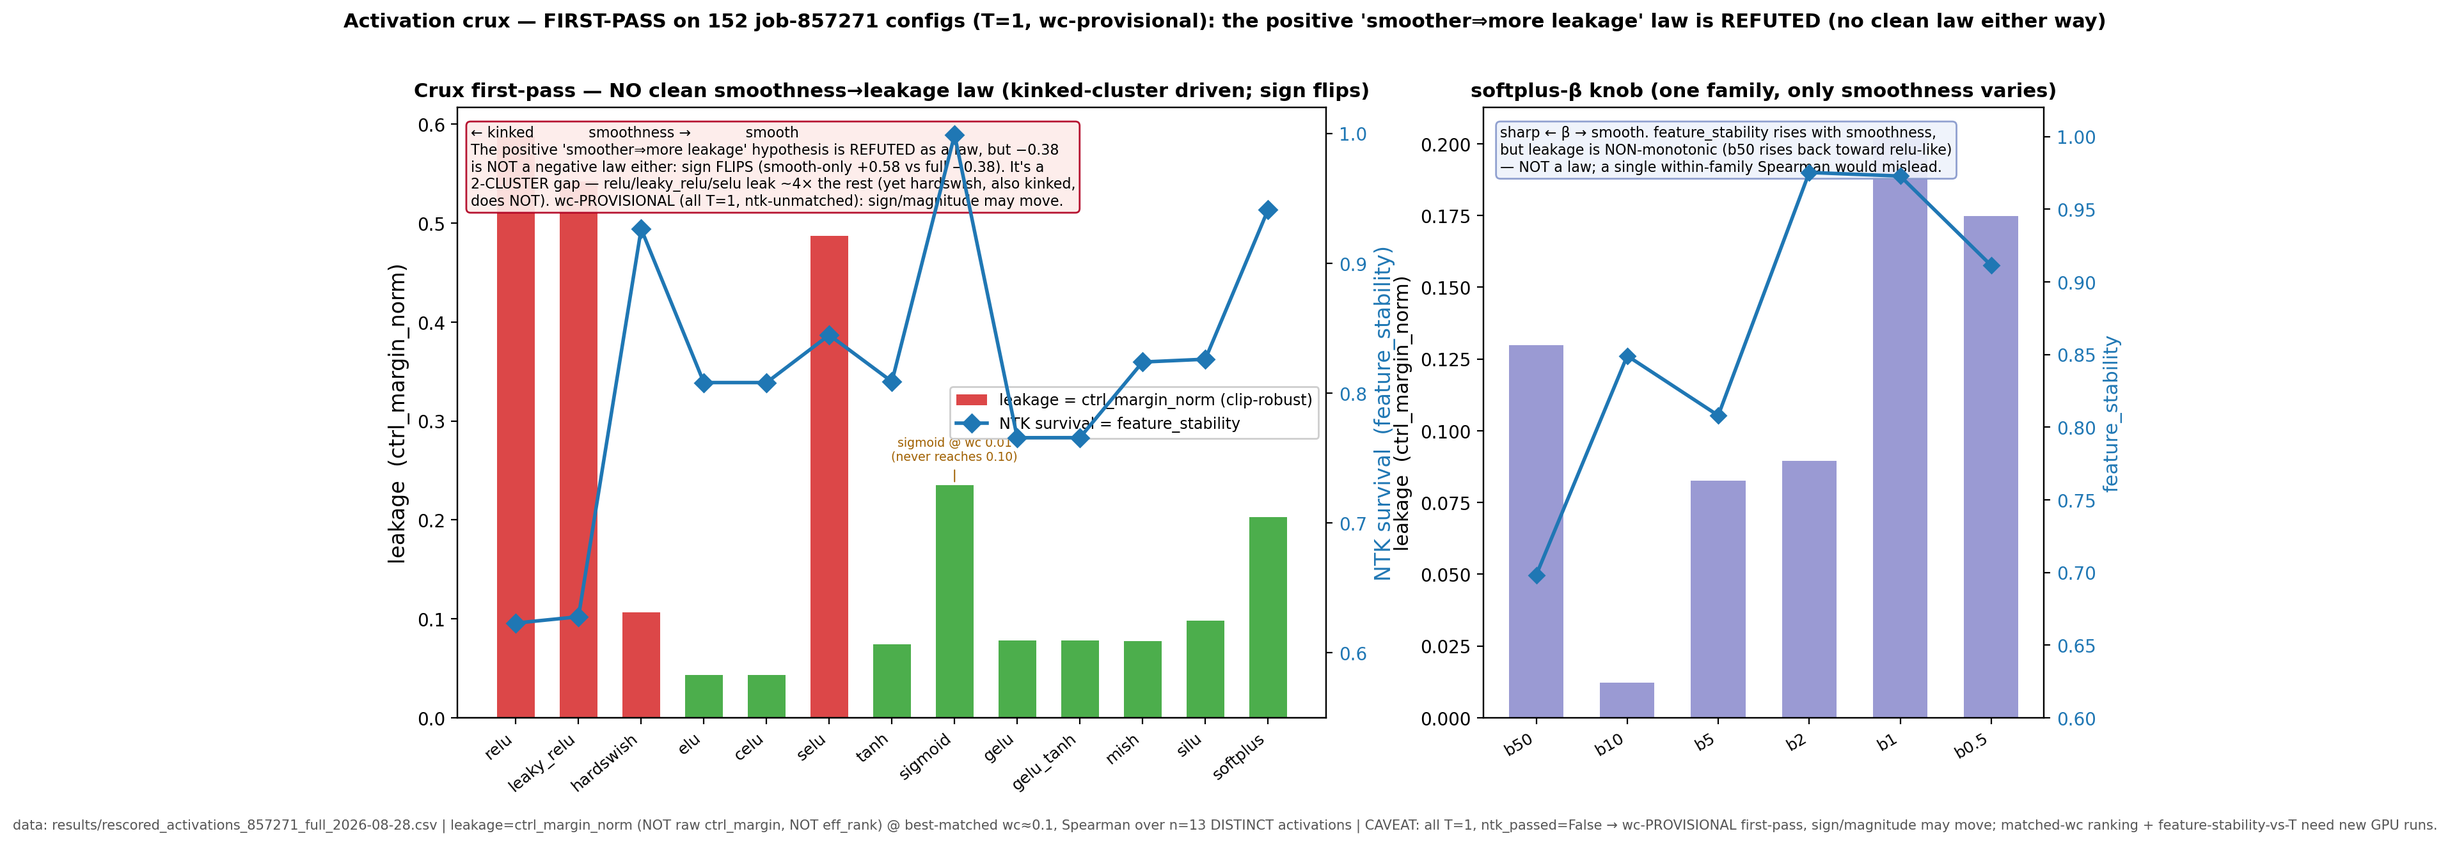
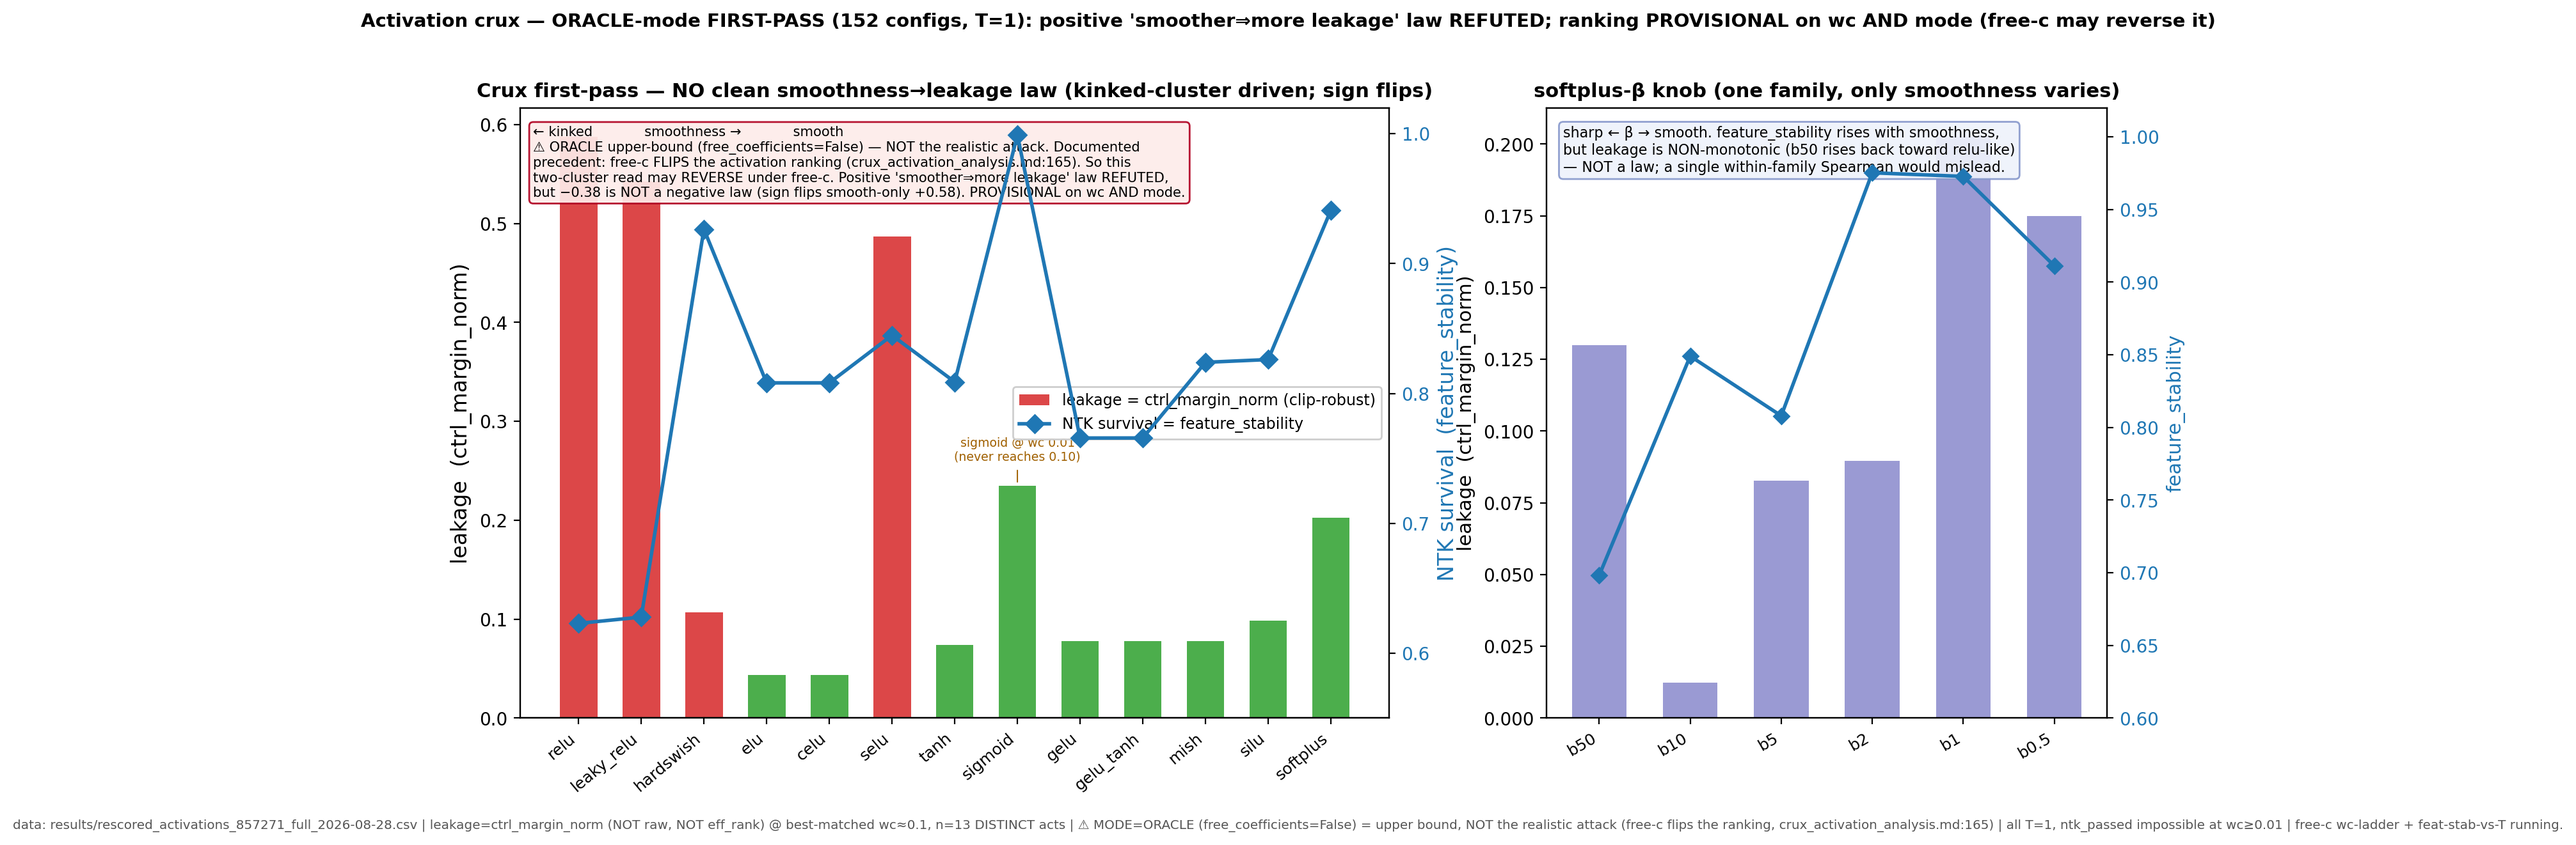
Crux: relabel first-pass as ORACLE upper-bound + document ntk_passed impossibility
yoado-6d confirmed the 857271 tensors are free_coefficients=False (ORACLE/known-coefficient). Project has
documented precedent (crux_activation_analysis.md:165) that free-c FLIPS the activation ranking (smooth
activations don't leak under free-c on flowers) -> the two-cluster 'kinked leak most' read may REVERSE under
the realistic attack. -0.38 now provisional on BOTH wc AND mode. Figure/docs relabeled: ORACLE upper-bound,
free-c pending (user rule: oracle is cheating). ntk_passed impossibility documented as a finding: ntk_passed
needs wc<0.01, disjoint from meaningful wc 0.1-0.3 by construction -> plan's Step-2a target was ill-posed.
Corrected closure: free-c wc-ladder {0.005,0.03,0.1,0.3} + feature-stability-vs-T (job 390026 running).

diff --git a/experiments/plot_activation_ranking.py b/experiments/plot_activation_ranking.py
@@ -88,11 +88,11 @@ def main():
                   fontsize=11, fontweight="bold")
     axS.text(0.015, 0.97,
              "← kinked            smoothness →            smooth\n"
-             "The positive 'smoother⇒more leakage' hypothesis is REFUTED as a law, but −0.38\n"
-             "is NOT a negative law either: sign FLIPS (smooth-only +0.58 vs full −0.38). It's a\n"
-             "2-CLUSTER gap — relu/leaky_relu/selu leak ~4× the rest (yet hardswish, also kinked,\n"
-             "does NOT). wc-PROVISIONAL (all T=1, ntk-unmatched): sign/magnitude may move.",
-             transform=axS.transAxes, va="top", fontsize=8.0,
+             "⚠ ORACLE upper-bound (free_coefficients=False) — NOT the realistic attack. Documented\n"
+             "precedent: free-c FLIPS the activation ranking (crux_activation_analysis.md:165). So this\n"
+             "two-cluster read may REVERSE under free-c. Positive 'smoother⇒more leakage' law REFUTED,\n"
+             "but −0.38 is NOT a negative law (sign flips smooth-only +0.58). PROVISIONAL on wc AND mode.",
+             transform=axS.transAxes, va="top", fontsize=7.6,
              bbox=dict(boxstyle="round", fc="#fdecea", ec="#b00020", alpha=0.92))
     h1, l1 = axS.get_legend_handles_labels()
     h2, l2 = ax2.get_legend_handles_labels()
@@ -126,14 +126,14 @@ def main():
              transform=axB.transAxes, va="top", fontsize=8.0,
              bbox=dict(boxstyle="round", fc="#eef2fb", ec="#8899cc", alpha=0.92))
 
-    fig.suptitle("Activation crux — FIRST-PASS on 152 job-857271 configs (T=1, wc-provisional): "
-                 "the positive 'smoother⇒more leakage' law is REFUTED (no clean law either way)",
-                 fontsize=11, fontweight="bold", y=1.0)
+    fig.suptitle("Activation crux — ORACLE-mode FIRST-PASS (152 configs, T=1): positive 'smoother⇒more "
+                 "leakage' law REFUTED; ranking PROVISIONAL on wc AND mode (free-c may reverse it)",
+                 fontsize=10.5, fontweight="bold", y=1.0)
     fig.text(0.5, -0.03,
-             f"data: {CSV} | leakage=ctrl_margin_norm (NOT raw ctrl_margin, NOT eff_rank) @ best-matched wc≈{TARGET_WC}, "
-             "Spearman over n=13 DISTINCT activations | CAVEAT: all T=1, ntk_passed=False → wc-PROVISIONAL first-pass, "
-             "sign/magnitude may move; matched-wc ranking + feature-stability-vs-T need new GPU runs.",
-             ha="center", fontsize=7.6, color="#555")
+             f"data: {CSV} | leakage=ctrl_margin_norm (NOT raw, NOT eff_rank) @ best-matched wc≈{TARGET_WC}, n=13 DISTINCT acts | "
+             "⚠ MODE=ORACLE (free_coefficients=False) = upper bound, NOT the realistic attack (free-c flips the ranking, "
+             "crux_activation_analysis.md:165) | all T=1, ntk_passed impossible at wc≥0.01 | free-c wc-ladder + feat-stab-vs-T running.",
+             ha="center", fontsize=7.2, color="#555")
     os.makedirs(os.path.dirname(OUT), exist_ok=True)
     fig.savefig(OUT, bbox_inches="tight", facecolor="white")
     plt.close(fig)

diff --git a/notes/crux_activation_analysis.md b/notes/crux_activation_analysis.md
@@ -17,10 +17,25 @@
 > - `feature_stability` tracks smoothness only **weakly (+0.29)** — the strong linearization evidence is the
 >   softplus-β β-monotonicity (job 911475), NOT this. softplus-β leakage is **non-monotonic** (b50 rises back
 >   toward relu-like) → report as non-monotonic, not a within-family "+0.60 trend."
-> - Robust takeaway: **no clean monotonic smoothness→leakage law in this first-pass; kinked relu/leaky_relu/selu
->   leak most (wc-provisional).** The matched-wc GPU re-sweep (user approved Full closure) turns this into the
->   actual leakage ranking. Figure + generator: `figures/crux/activation_ranking_857271.png` /
->   `experiments/plot_activation_ranking.py`.
+> - **⚠ MODE = ORACLE (upper bound), NOT the realistic ranking.** The 857271 tensors were generated with
+>   `free_coefficients=False` (template default) → known-coefficient ORACLE. This project has DOCUMENTED
+>   precedent that free-c FLIPS the activation ranking (this file, §"linearization fidelity → leakage": the
+>   non-free/oracle flowers32 files tell the OPPOSITE, softplus-favouring story; on flowers32 free-c the
+>   smooth activations don't leak at all). So the two-cluster "kinked leak most" read may REVERSE under the
+>   realistic free-c attack. −0.38 is therefore provisional on BOTH axes — **wc AND mode**. Present strictly
+>   as "oracle upper-bound, free-c pending" (user rule: oracle is cheating/upper-bound only).
+> - **ntk_passed impossibility (a finding, not a miss):** `ntk_passed = (wc < 0.01 AND feature_stability > 0.99)`
+>   (configs.py NTK_WEIGHT_CHANGE_THRESHOLD=0.01), so a "meaningful" fine-tune at wc≈0.1–0.3 can NEVER be
+>   ntk_passed — the two are DISJOINT BY CONSTRUCTION (all 18 ntk_passed=True configs sit at wc<0.01). The
+>   plan's Step-2a "matched-wc AND ntk_passed" target was ill-posed. Corrected GPU closure (user approved,
+>   yoado-6d-agreed): **free-c wc-LADDER {0.005 (NTK rung), 0.03, 0.1, 0.3}** with exact per-activation
+>   wc-matching, feature_stability as a graded covariate per rung, ranking's **wc-dependence** the headline
+>   (stable across ladder ⇒ robust; flips ⇒ that IS the finding). The NTK rung may be degenerate (tiny wc ⇒
+>   feat_stab≈1 for all, leakage≈noise) — if so, that itself shows leakage is a finite-wc phenomenon.
+> - Robust takeaway: **no clean monotonic smoothness→leakage law in this ORACLE first-pass; kinked
+>   relu/leaky_relu/selu leak most (provisional on wc AND mode).** The free-c wc-ladder + feature-stability-vs-T
+>   (job 390026) GPU closure turns this into the actual leakage ranking. Figure + generator:
+>   `figures/crux/activation_ranking_857271.png` / `experiments/plot_activation_ranking.py`.
 
 **Date:** 2026-08-21 · **Scope:** pure re-analysis of on-disk results (no GPU runs).
 **Sources:** `results/rescored_batch_2026-08-13.csv` (256 rows), `results/flowers32_rescored.csv` (27),

diff --git a/STATUS.md b/STATUS.md
@@ -16,8 +16,14 @@ at best-matched wc≈0.10, Spearman over n=13 DISTINCT activations (metric-audit
 sign **FLIPS within the smooth-only set (+0.58)**; wc-PROVISIONAL (all T=1, ntk_passed=False → sign/magnitude
 may move under true matched-wc). `feature_stability` tracks smoothness only weakly (+0.29 — strong linearization
 evidence is the softplus-β monotonicity, job 911475, not this); softplus-β leakage is NON-monotonic (not a law).
-Robust: **no clean monotonic smoothness→leakage law in the first-pass; kinked relu/leaky_relu/selu leak most.**
-Figure + committed generator:
+**⚠ ORACLE MODE:** the 857271 tensors are free_coefficients=False (oracle upper bound), and free-c has
+DOCUMENTED precedent for FLIPPING the ranking (crux_activation_analysis.md:165) — so this read may reverse
+under the realistic free-c attack; provisional on BOTH wc AND mode. **ntk_passed impossibility (finding):**
+ntk_passed needs wc<0.01 (NTK_WEIGHT_CHANGE_THRESHOLD) so it's DISJOINT from meaningful wc 0.1–0.3 — the
+plan's "matched-wc AND ntk_passed" was ill-posed. Corrected closure (user approved, yoado-6d-agreed): free-c
+wc-LADDER {0.005,0.03,0.1,0.3} exact per-activation wc-match + feature-stability-vs-T (job 390026 RUNNING).
+Robust: **no clean monotonic smoothness→leakage law in this ORACLE first-pass; kinked relu/leaky_relu/selu
+leak most (provisional on wc AND mode).** Figure + committed generator:
 `figures/crux/activation_ranking_857271.png` / `experiments/plot_activation_ranking.py`.
 **OPEN (needs GPU, user's compute call):** all configs T=1 & ntk_passed=False → this is a first-pass, NOT
 the matched-wc leakage ranking; the clean matched-`weight_change` ranking + the feature-stability-vs-T
